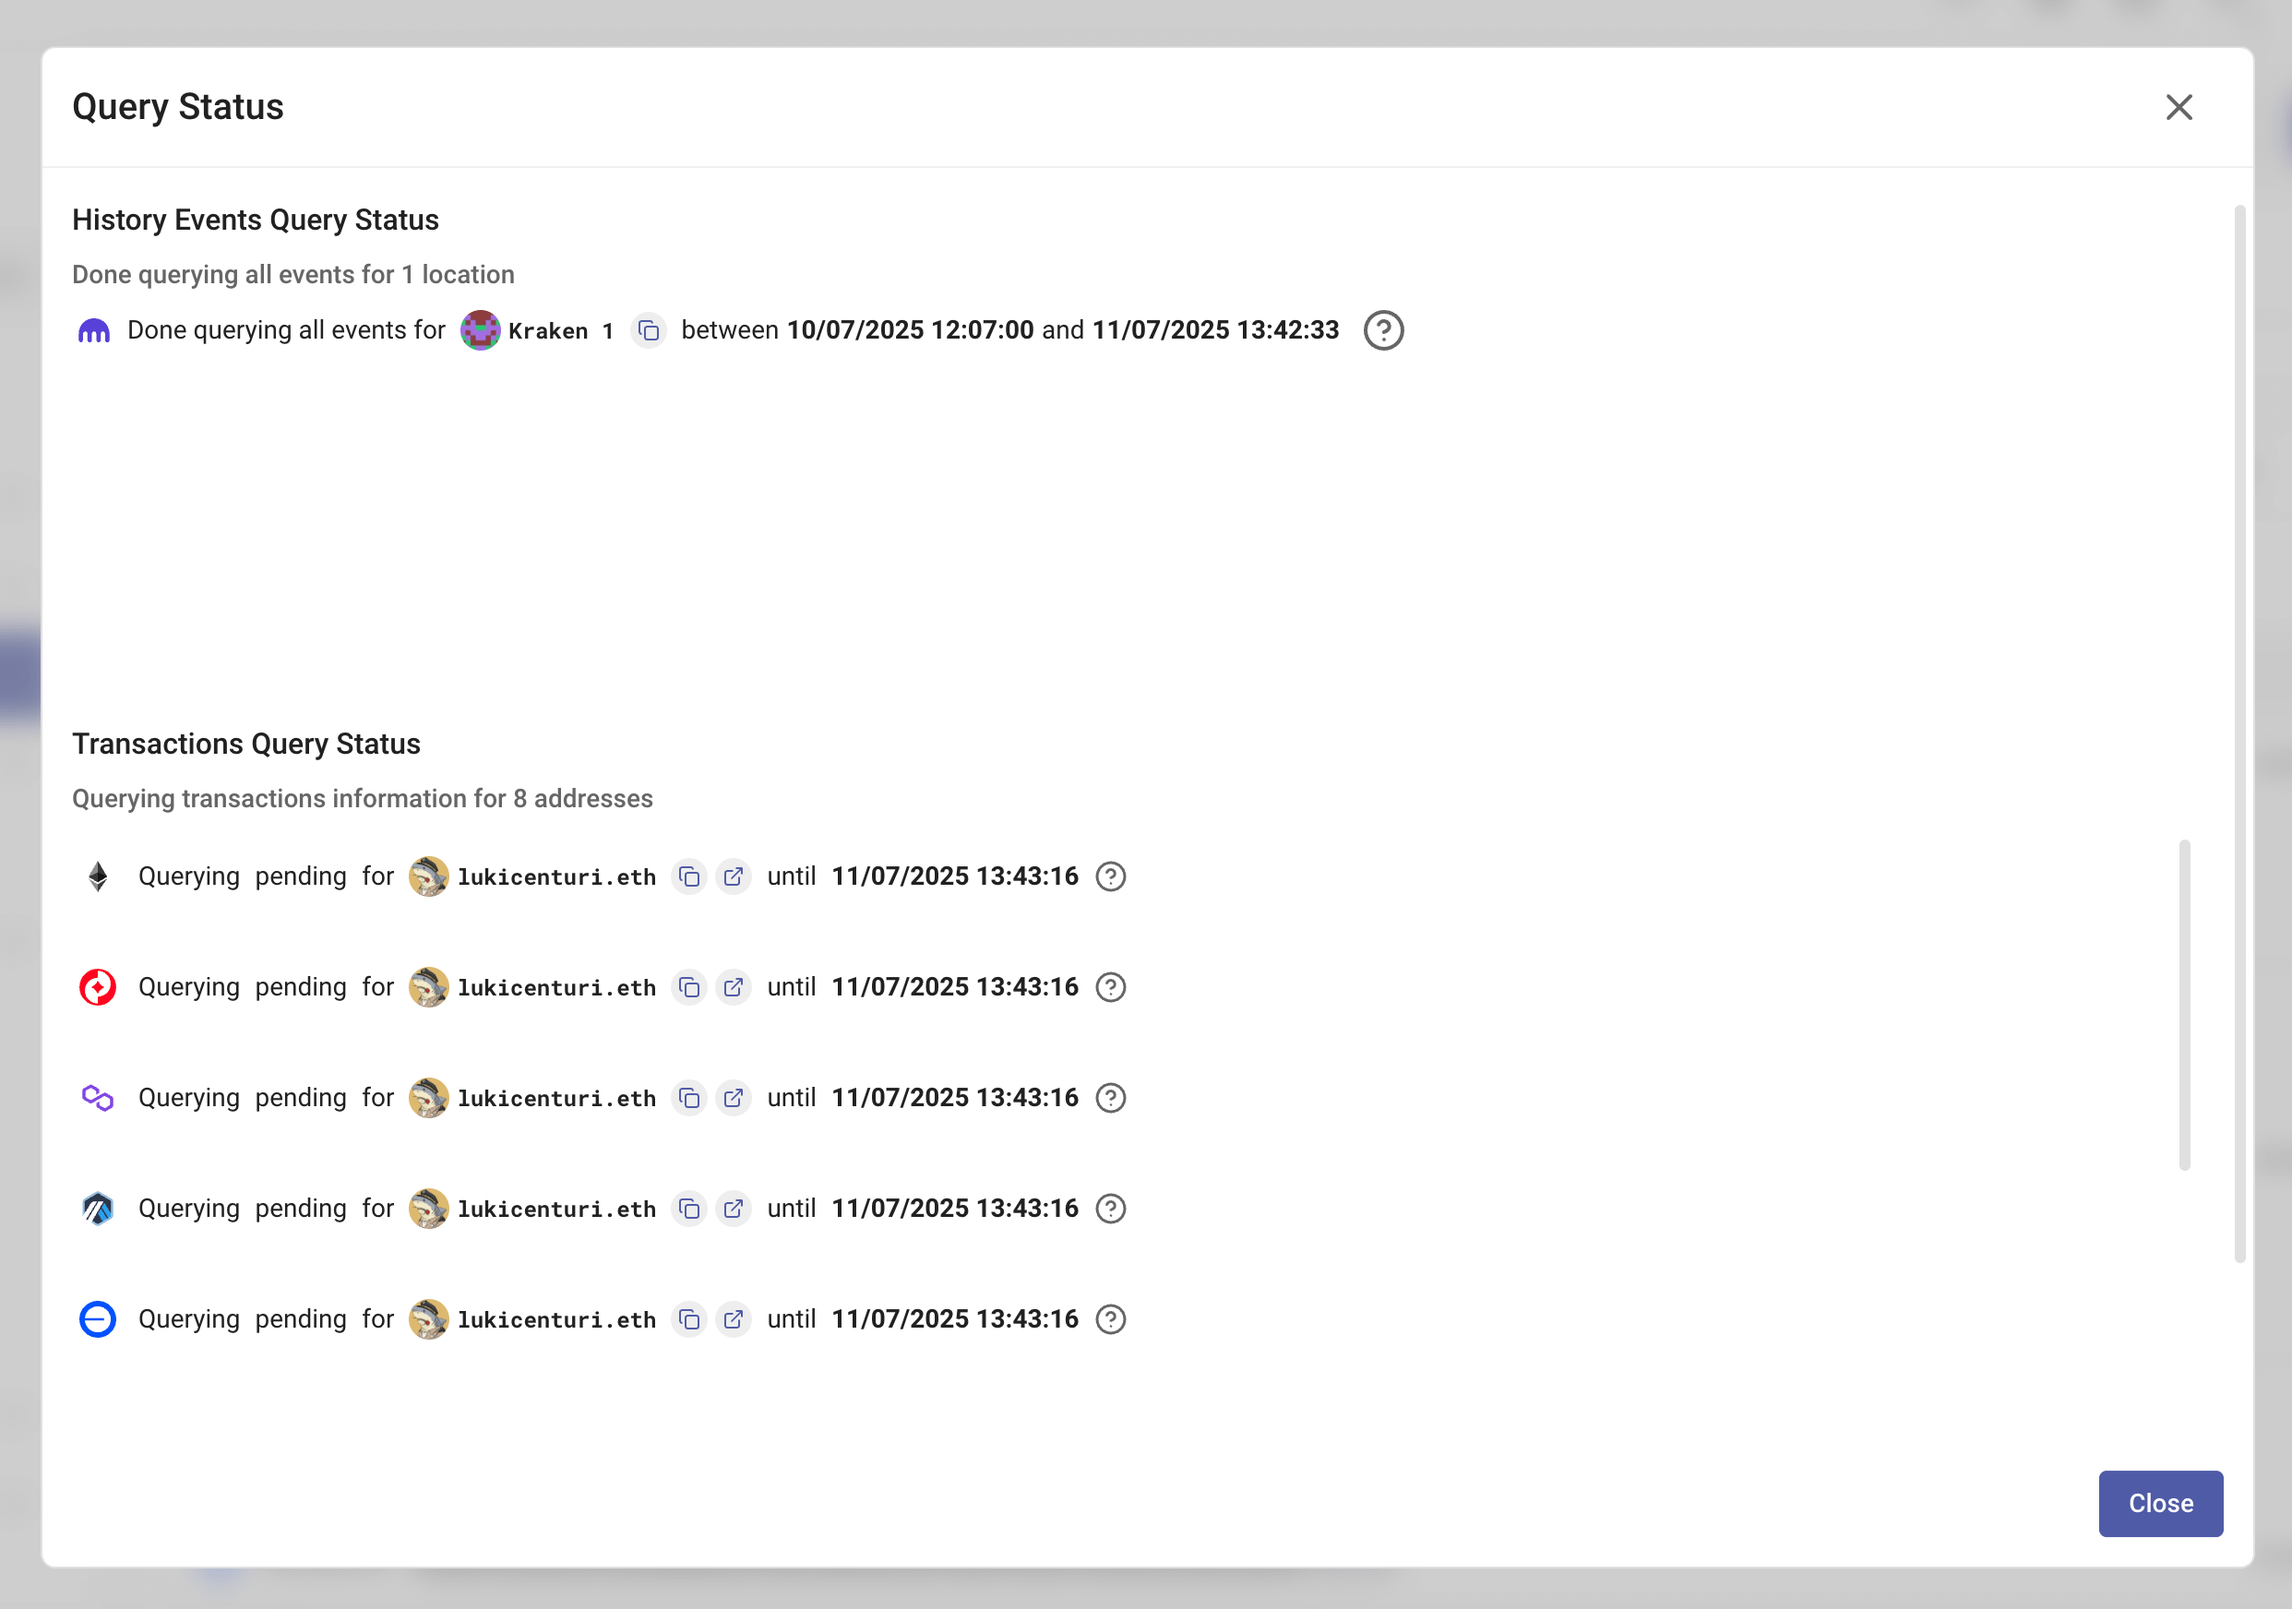
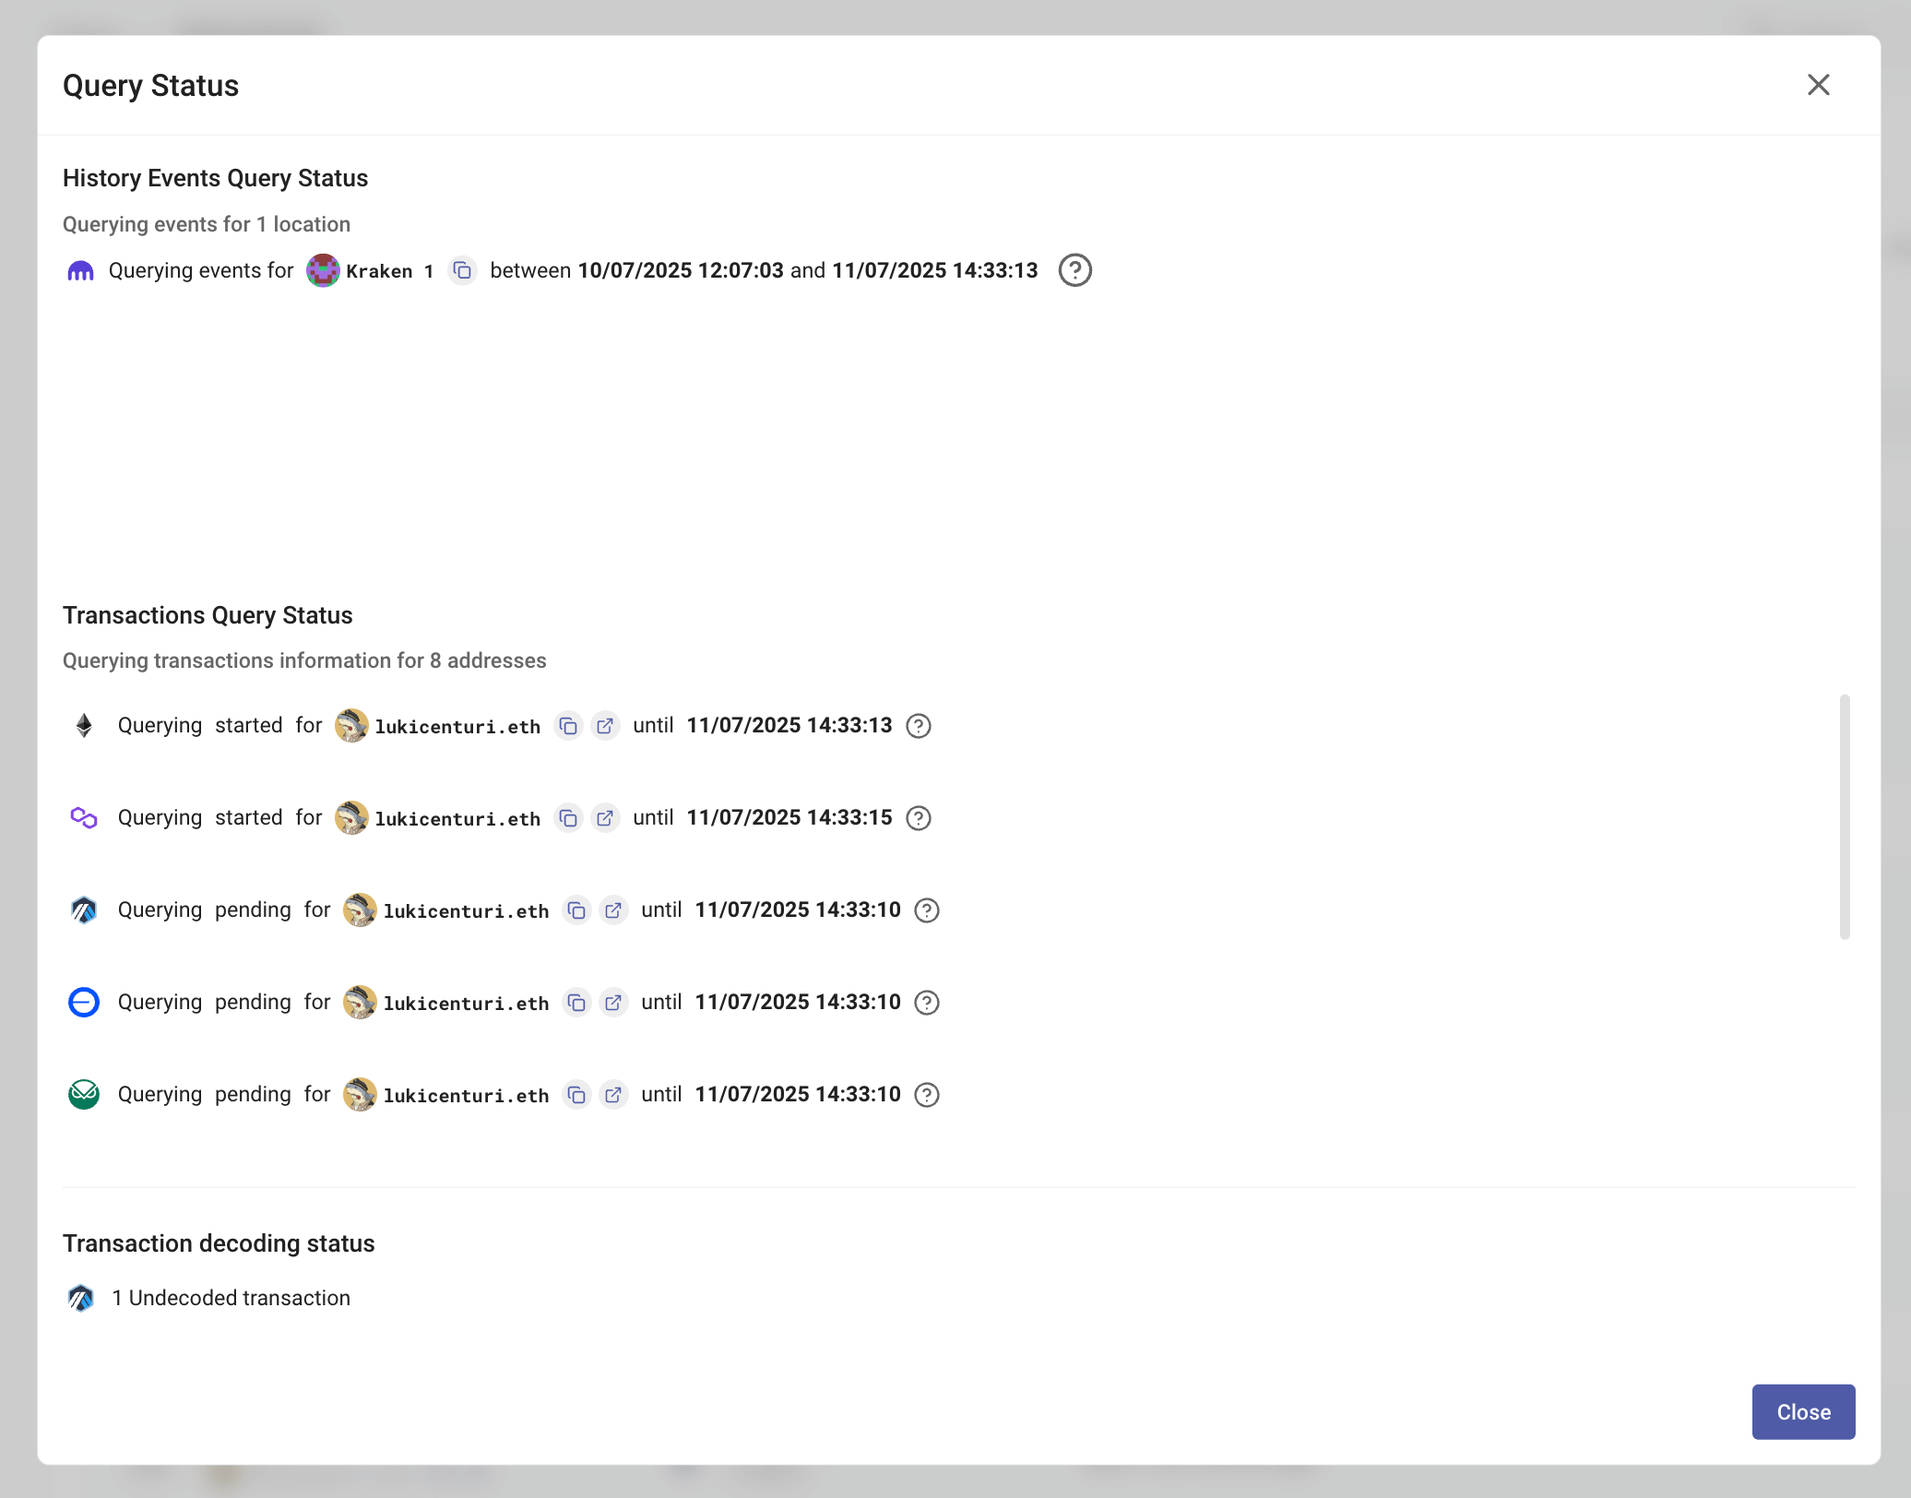
fix: based on the review

diff --git a/usage-guides/historical-events.md b/usage-guides/historical-events.md
@@ -53,9 +53,15 @@ You can choose to refresh all events by clicking the main `Refresh` button, or y
 
 ![Refreshing events](/images/refreshing_events.png)
 
-To see the query status, you can click the button here:
+To see the status, you can click the button here:
 
 ![See query status](/images/see_query_status.png)
+
+Basically, what happens when you refresh the transactions/events are:
+
+1. It will query the transactions from the "last queried time" to the current time.
+2. For EVM events, after rotki queries these new transactions, it will try to decode them.
+3. The events will be displayed correctly in the UI only after they are properly decoded.
 
 ![Events query status](/images/events_query_status.png)
 
